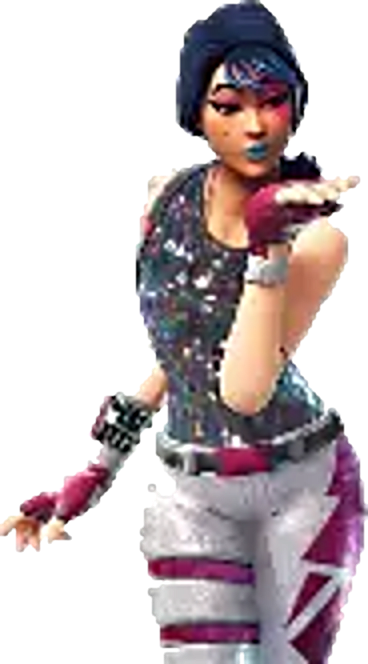
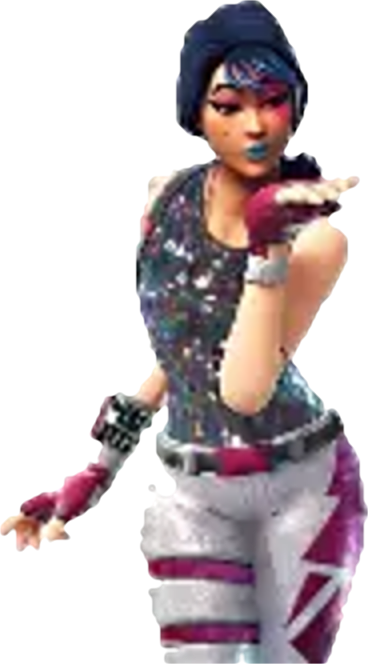
Hero kiss pose: smoother cutout, remove clipped glow box

diff --git a/reviews.html b/reviews.html
@@ -11,8 +11,8 @@
 <link rel="preconnect" href="https://fonts.gstatic.com" crossorigin>
 <link href="https://fonts.googleapis.com/css2?family=Urbanist:wght@400;500;600;700;800&display=swap" rel="stylesheet">
 <link href="https://api.fontshare.com/v2/css?f[]=clash-display@600,700&display=swap" rel="stylesheet">
-<link rel="stylesheet" href="/assets/site.css?v=50">
-<link rel="stylesheet" href="/assets/pages.css?v=50">
+<link rel="stylesheet" href="/assets/site.css?v=51">
+<link rel="stylesheet" href="/assets/pages.css?v=51">
 </head>
 <body>
 <main class="page"><div class="wrap" style="max-width:1100px">
@@ -29,7 +29,7 @@
   <div class="empty" id="none" hidden><b>No reviews yet</b>Be the first. Buy a product, claim the Customer role in our Discord, then run /vouch.
     <div style="margin-top:16px"><a class="btn btn-main" href="/products">Browse products</a></div></div>
 </div></main>
-<script src="/assets/site.js?v=50"></script>
+<script src="/assets/site.js?v=51"></script>
 <script>
 const stars = n => Array.from({ length: 5 }, (_, k) => ico.star.replace("<svg", `<svg class="${k < Math.round(n) ? "" : "off"}"`)).join("");
 document.getElementById("avgStars").innerHTML = stars(0);

diff --git a/media.html b/media.html
@@ -11,8 +11,8 @@
 <link rel="preconnect" href="https://fonts.gstatic.com" crossorigin>
 <link href="https://fonts.googleapis.com/css2?family=Urbanist:wght@400;500;600;700;800&display=swap" rel="stylesheet">
 <link href="https://api.fontshare.com/v2/css?f[]=clash-display@600,700&display=swap" rel="stylesheet">
-<link rel="stylesheet" href="/assets/site.css?v=50">
-<link rel="stylesheet" href="/assets/pages.css?v=50">
+<link rel="stylesheet" href="/assets/site.css?v=51">
+<link rel="stylesheet" href="/assets/pages.css?v=51">
 </head>
 <body>
 <main class="page"><div class="wrap" style="max-width:1000px">
@@ -46,7 +46,7 @@
     <a class="btn btn-main" id="join" href="#" target="_blank" rel="noopener">Join Media Discord</a>
   </div>
 </div></main>
-<script src="/assets/site.js?v=50"></script>
+<script src="/assets/site.js?v=51"></script>
 <script>
 const svg = d => `<svg viewBox="0 0 24 24" fill="none" stroke="currentColor" stroke-width="2" stroke-linecap="round" stroke-linejoin="round">${d}</svg>`;
 document.getElementById("i1").innerHTML = svg('<path d="M12 2v20M17 6H9.5a3.5 3.5 0 0 0 0 7h5a3.5 3.5 0 0 1 0 7H6"/>');

diff --git a/status.html b/status.html
@@ -11,8 +11,8 @@
 <link rel="preconnect" href="https://fonts.gstatic.com" crossorigin>
 <link href="https://fonts.googleapis.com/css2?family=Urbanist:wght@400;500;600;700;800&display=swap" rel="stylesheet">
 <link href="https://api.fontshare.com/v2/css?f[]=clash-display@600,700&display=swap" rel="stylesheet">
-<link rel="stylesheet" href="/assets/site.css?v=50">
-<link rel="stylesheet" href="/assets/pages.css?v=50">
+<link rel="stylesheet" href="/assets/site.css?v=51">
+<link rel="stylesheet" href="/assets/pages.css?v=51">
 </head>
 <body>
 <main class="page"><div class="wrap" style="max-width:1100px">
@@ -31,7 +31,7 @@
     <span><i style="background:var(--bad)"></i>Detected / Down: known issue, fix in progress</span>
   </div>
 </div></main>
-<script src="/assets/site.js?v=50"></script>
+<script src="/assets/site.js?v=51"></script>
 <script>
 const fmt = t => t ? new Date(t).toLocaleString([], { month: "2-digit", day: "2-digit", hour: "2-digit", minute: "2-digit", hour12: false }).replace(",", "") : "";
 async function load() {

diff --git a/404.html b/404.html
@@ -10,14 +10,14 @@
 <link rel="preconnect" href="https://fonts.gstatic.com" crossorigin>
 <link href="https://fonts.googleapis.com/css2?family=Urbanist:wght@400;500;600;700;800&display=swap" rel="stylesheet">
 <link href="https://api.fontshare.com/v2/css?f[]=clash-display@600,700&display=swap" rel="stylesheet">
-<link rel="stylesheet" href="/assets/site.css?v=50">
-<link rel="stylesheet" href="/assets/pages.css?v=50">
+<link rel="stylesheet" href="/assets/site.css?v=51">
+<link rel="stylesheet" href="/assets/pages.css?v=51">
 </head>
 <body>
 <main class="page"><div class="wrap" style="max-width:640px">
   <div class="empty"><b>Page not found</b>That page doesn't exist or has moved.
     <div style="margin-top:16px;display:flex;gap:10px;justify-content:center;flex-wrap:wrap"><a class="btn btn-main" href="/">Go home</a><a class="btn btn-ghost" href="/products">Browse products</a></div></div>
 </div></main>
-<script src="/assets/site.js?v=50"></script>
+<script src="/assets/site.js?v=51"></script>
 </body>
 </html>

diff --git a/assets/pages.css b/assets/pages.css
@@ -727,3 +727,8 @@ footer.foot .wrap{display:block;text-align:left;padding:0}
 .hero-girl.kiss .hg-aura{width:520px;height:520px;top:46%}
 .hero-girl.kiss .hg-fig{height:350px;width:auto;overflow:visible;-webkit-mask-image:linear-gradient(180deg,#000 0,#000 78%,transparent 100%);mask-image:linear-gradient(180deg,#000 0,#000 78%,transparent 100%)}
 .hero-girl.kiss img{height:350px;width:auto;filter:drop-shadow(0 0 18px rgba(var(--accent-rgb),.5)) drop-shadow(0 12px 22px rgba(0,0,0,.5))}
+
+/* v6: no clipped glow (that made the visible box), fade applied to the picture only, slightly smaller so the soft source stays clean */
+.hero-girl.kiss{height:320px;top:140px}
+.hero-girl.kiss .hg-fig{height:320px;overflow:visible;-webkit-mask-image:none;mask-image:none}
+.hero-girl.kiss img{height:320px;width:auto;filter:none;-webkit-mask-image:linear-gradient(180deg,#000 0,#000 76%,transparent 100%);mask-image:linear-gradient(180deg,#000 0,#000 76%,transparent 100%)}

diff --git a/login.html b/login.html
@@ -10,8 +10,8 @@
 <link rel="preconnect" href="https://fonts.gstatic.com" crossorigin>
 <link href="https://fonts.googleapis.com/css2?family=Urbanist:wght@400;500;600;700;800&display=swap" rel="stylesheet">
 <link href="https://api.fontshare.com/v2/css?f[]=clash-display@600,700&display=swap" rel="stylesheet">
-<link rel="stylesheet" href="/assets/site.css?v=50">
-<link rel="stylesheet" href="/assets/pages.css?v=50">
+<link rel="stylesheet" href="/assets/site.css?v=51">
+<link rel="stylesheet" href="/assets/pages.css?v=51">
 </head>
 <body>
 <main class="page"><div class="wrap auth">
@@ -24,7 +24,7 @@
     <small>We only read your Discord name, avatar and email. We never post for you.</small>
   </div>
 </div></main>
-<script src="/assets/site.js?v=50"></script>
+<script src="/assets/site.js?v=51"></script>
 <script>
 document.getElementById("lockIco").innerHTML = ico.lock;
 const btn = document.getElementById("dbtn"), msg = document.getElementById("msg");

diff --git a/products.html b/products.html
@@ -11,8 +11,8 @@
 <link rel="preconnect" href="https://fonts.gstatic.com" crossorigin>
 <link href="https://fonts.googleapis.com/css2?family=Urbanist:wght@400;500;600;700;800&display=swap" rel="stylesheet">
 <link href="https://api.fontshare.com/v2/css?f[]=clash-display@600,700&display=swap" rel="stylesheet">
-<link rel="stylesheet" href="/assets/site.css?v=50">
-<link rel="stylesheet" href="/assets/pages.css?v=50">
+<link rel="stylesheet" href="/assets/site.css?v=51">
+<link rel="stylesheet" href="/assets/pages.css?v=51">
 </head>
 <body>
 <main class="page"><div class="wrap">
@@ -25,7 +25,7 @@
   <div class="pgrid" id="grid"></div>
   <div class="empty" id="none" hidden><b>No products found</b>Try a different search.</div>
 </div></main>
-<script src="/assets/site.js?v=50"></script>
+<script src="/assets/site.js?v=51"></script>
 <script>
 const grid = document.getElementById("grid"), none = document.getElementById("none");
 let live = {};

diff --git a/privacy.html b/privacy.html
@@ -11,8 +11,8 @@
 <link rel="preconnect" href="https://fonts.gstatic.com" crossorigin>
 <link href="https://fonts.googleapis.com/css2?family=Urbanist:wght@400;500;600;700;800&display=swap" rel="stylesheet">
 <link href="https://api.fontshare.com/v2/css?f[]=clash-display@600,700&display=swap" rel="stylesheet">
-<link rel="stylesheet" href="/assets/site.css?v=50">
-<link rel="stylesheet" href="/assets/pages.css?v=50">
+<link rel="stylesheet" href="/assets/site.css?v=51">
+<link rel="stylesheet" href="/assets/pages.css?v=51">
 </head>
 <body>
 <main class="page"><div class="wrap lgl">
@@ -25,7 +25,7 @@
     </article>
   </div>
 </div></main>
-<script src="/assets/site.js?v=50"></script>
+<script src="/assets/site.js?v=51"></script>
 <script>
 document.getElementById("lcta").href = CONFIG.discord;
 // table of contents: smooth jump without putting a #hash in the address bar, plus scroll highlight

diff --git a/refund.html b/refund.html
@@ -11,8 +11,8 @@
 <link rel="preconnect" href="https://fonts.gstatic.com" crossorigin>
 <link href="https://fonts.googleapis.com/css2?family=Urbanist:wght@400;500;600;700;800&display=swap" rel="stylesheet">
 <link href="https://api.fontshare.com/v2/css?f[]=clash-display@600,700&display=swap" rel="stylesheet">
-<link rel="stylesheet" href="/assets/site.css?v=50">
-<link rel="stylesheet" href="/assets/pages.css?v=50">
+<link rel="stylesheet" href="/assets/site.css?v=51">
+<link rel="stylesheet" href="/assets/pages.css?v=51">
 </head>
 <body>
 <main class="page"><div class="wrap lgl">
@@ -25,7 +25,7 @@
     </article>
   </div>
 </div></main>
-<script src="/assets/site.js?v=50"></script>
+<script src="/assets/site.js?v=51"></script>
 <script>
 document.getElementById("lcta").href = CONFIG.discord;
 // table of contents: smooth jump without putting a #hash in the address bar, plus scroll highlight

diff --git a/terms.html b/terms.html
@@ -11,8 +11,8 @@
 <link rel="preconnect" href="https://fonts.gstatic.com" crossorigin>
 <link href="https://fonts.googleapis.com/css2?family=Urbanist:wght@400;500;600;700;800&display=swap" rel="stylesheet">
 <link href="https://api.fontshare.com/v2/css?f[]=clash-display@600,700&display=swap" rel="stylesheet">
-<link rel="stylesheet" href="/assets/site.css?v=50">
-<link rel="stylesheet" href="/assets/pages.css?v=50">
+<link rel="stylesheet" href="/assets/site.css?v=51">
+<link rel="stylesheet" href="/assets/pages.css?v=51">
 </head>
 <body>
 <main class="page"><div class="wrap lgl">
@@ -25,7 +25,7 @@
     </article>
   </div>
 </div></main>
-<script src="/assets/site.js?v=50"></script>
+<script src="/assets/site.js?v=51"></script>
 <script>
 document.getElementById("lcta").href = CONFIG.discord;
 // table of contents: smooth jump without putting a #hash in the address bar, plus scroll highlight

diff --git a/arc-raiders.html b/arc-raiders.html
@@ -10,12 +10,12 @@
 <link rel="preconnect" href="https://fonts.gstatic.com" crossorigin>
 <link href="https://fonts.googleapis.com/css2?family=Urbanist:wght@400;500;600;700;800&display=swap" rel="stylesheet">
 <link href="https://api.fontshare.com/v2/css?f[]=clash-display@600,700&display=swap" rel="stylesheet">
-<link rel="stylesheet" href="/assets/site.css?v=50">
-<link rel="stylesheet" href="/assets/pages.css?v=50">
+<link rel="stylesheet" href="/assets/site.css?v=51">
+<link rel="stylesheet" href="/assets/pages.css?v=51">
 </head>
 <body>
 <main class="page"><div class="wrap" style="max-width:1100px" id="root"></div></main>
-<script src="/assets/site.js?v=50"></script>
+<script src="/assets/site.js?v=51"></script>
 <script>
 const root = document.getElementById("root");
 const p = productBy(new URLSearchParams(location.search).get("p") || location.pathname.replace(/^\/|\/$|\.html$/g, ""));

diff --git a/fortnite-accounts.html b/fortnite-accounts.html
@@ -10,12 +10,12 @@
 <link rel="preconnect" href="https://fonts.gstatic.com" crossorigin>
 <link href="https://fonts.googleapis.com/css2?family=Urbanist:wght@400;500;600;700;800&display=swap" rel="stylesheet">
 <link href="https://api.fontshare.com/v2/css?f[]=clash-display@600,700&display=swap" rel="stylesheet">
-<link rel="stylesheet" href="/assets/site.css?v=50">
-<link rel="stylesheet" href="/assets/pages.css?v=50">
+<link rel="stylesheet" href="/assets/site.css?v=51">
+<link rel="stylesheet" href="/assets/pages.css?v=51">
 </head>
 <body>
 <main class="page"><div class="wrap" style="max-width:1100px" id="root"></div></main>
-<script src="/assets/site.js?v=50"></script>
+<script src="/assets/site.js?v=51"></script>
 <script>
 const root = document.getElementById("root");
 const p = productBy(new URLSearchParams(location.search).get("p") || location.pathname.replace(/^\/|\/$|\.html$/g, ""));
